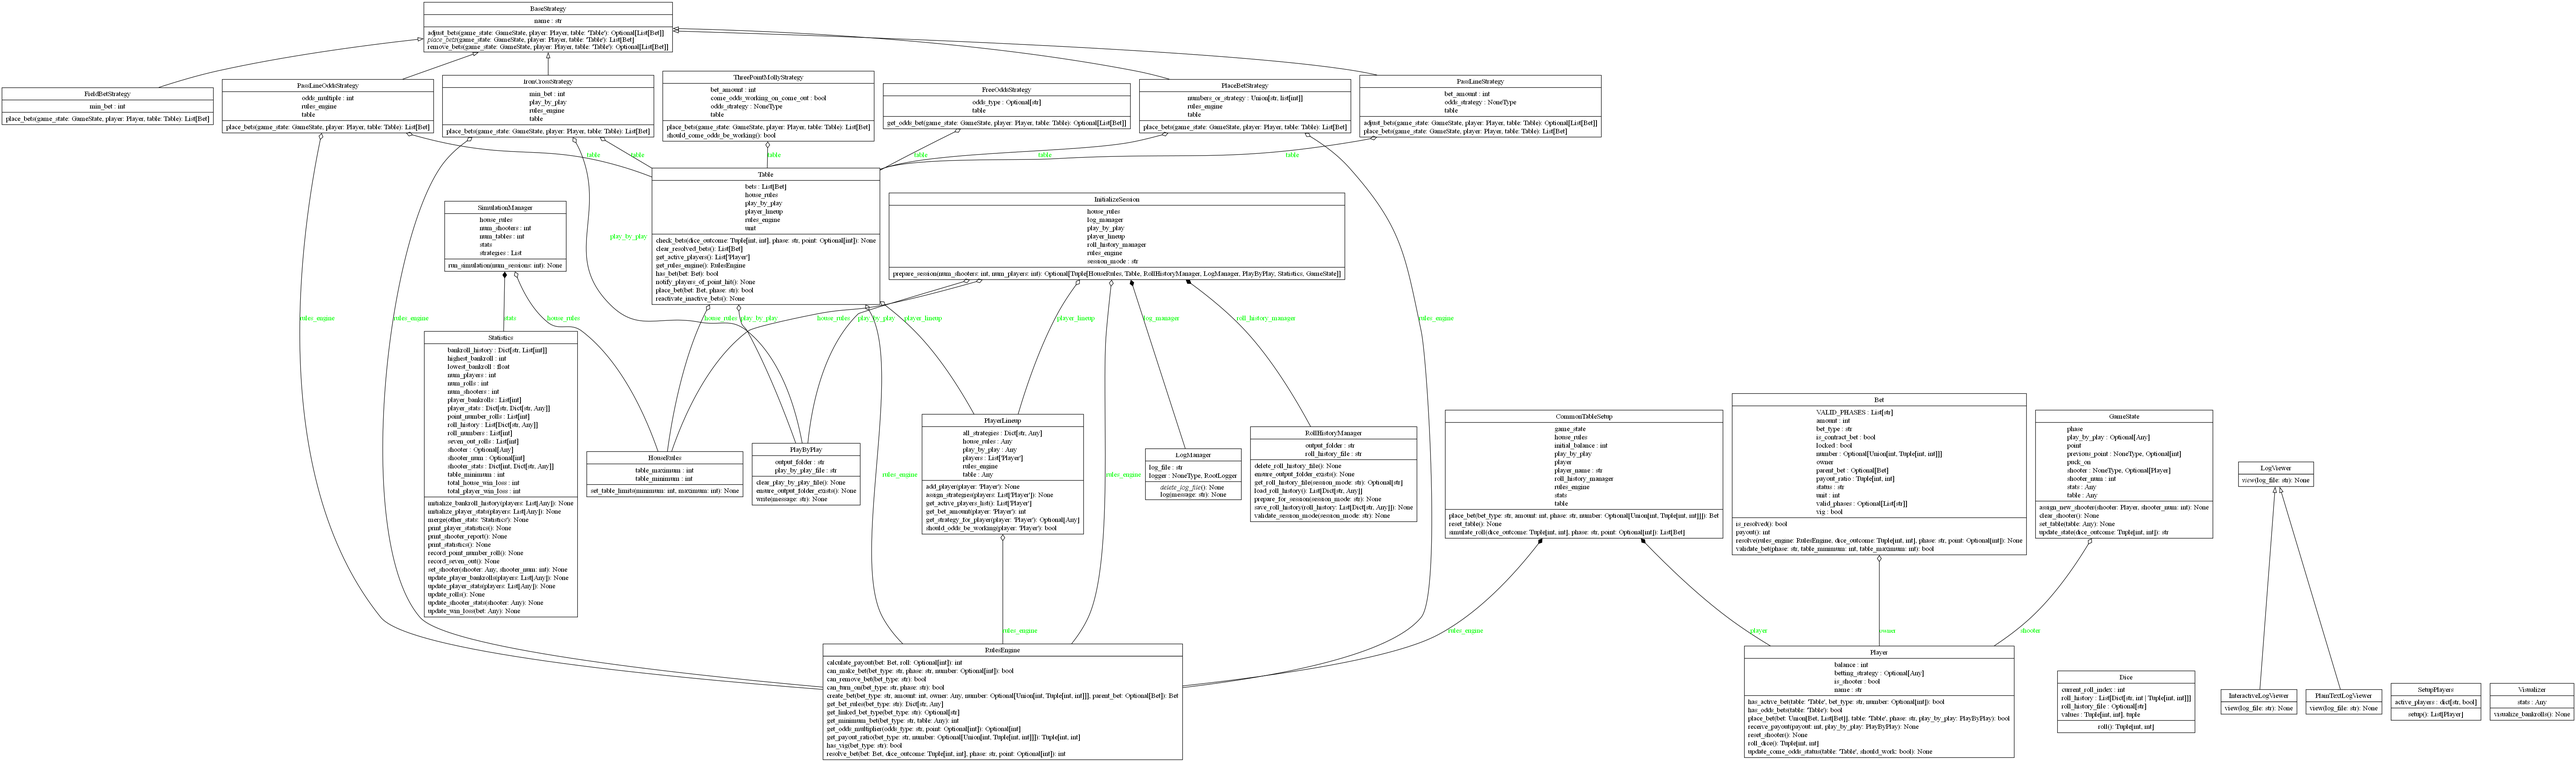
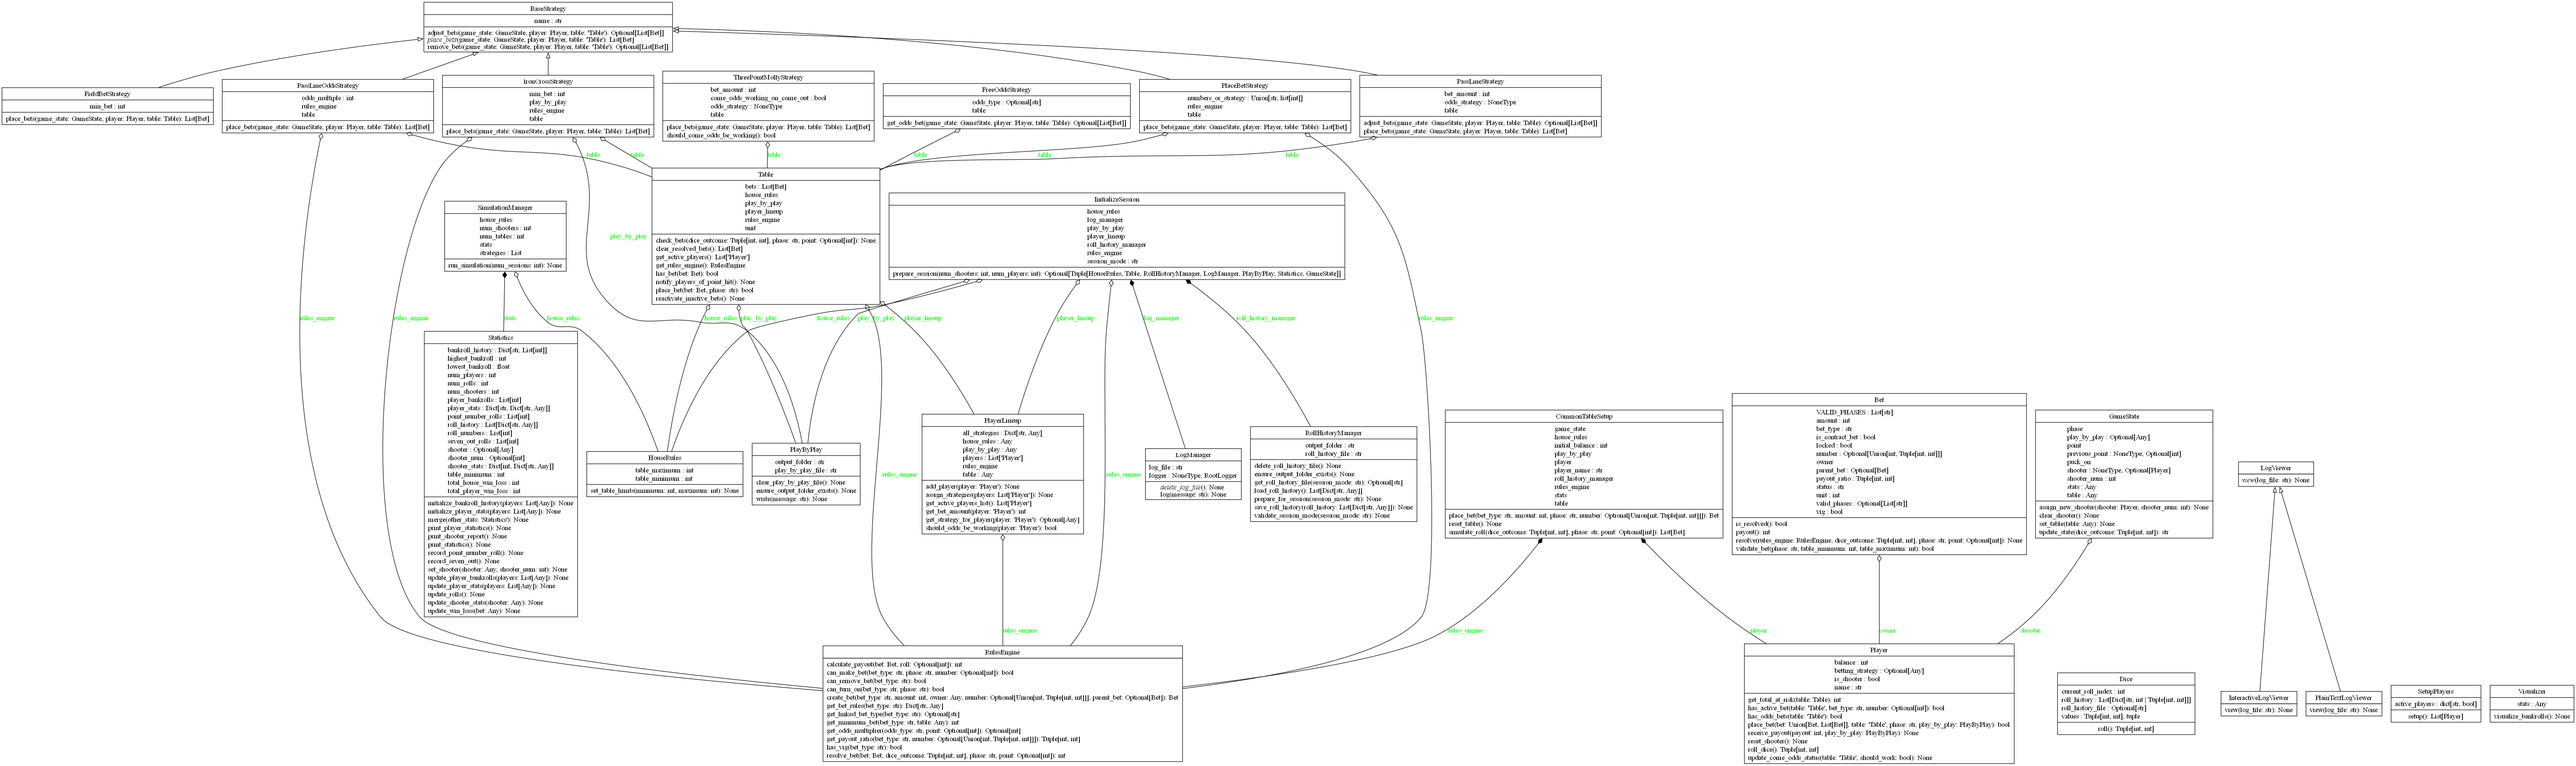
Fixed bankroll double pay

diff --git a/craps/bet.py b/craps/bet.py
@@ -99,9 +99,7 @@ class Bet:
             return 0  # No payout if the bet was lost
 
         numerator, denominator = self.payout_ratio
-        profit = (self.amount * numerator) // denominator
-
-        return self.amount + profit if self.is_contract_bet else profit
+        return (self.amount * numerator) // denominator
 
     def __str__(self) -> str:
         """Return a string representation of the bet."""
